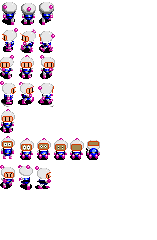
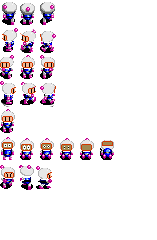
death animation done

diff --git a/src/bomberman/Sprite/Bomb.java b/src/bomberman/Sprite/Bomb.java
@@ -8,31 +8,32 @@ import bomberman.Game.*;
 import javax.swing.*;
 
 public class Bomb extends Sprite {
-
     private int timeLeft = 300;
     private int strength = 2;
     private Level level;
 
-    public Bomb(int x,int y,int height,int width, Image image, Level level){
-        super(x-42/2,y-42/2,42,42,image);
+    public Bomb(int x, int y, int height, int width, Image image, Level level) {
+        super(x - 42 / 2, y - 42 / 2, 42, 42, image);
         this.level = level;
     }
 
-    public boolean collides_with_sprite(int x1, int y1,int w1,int h1, Sprite sprite) {
-        Rectangle rect = new Rectangle(x1, y1, w1 , h1);
+    public boolean collides_with_sprite(int x1, int y1, int w1, int h1, Sprite sprite) {
+        Rectangle rect = new Rectangle(x1, y1, w1, h1);
         Rectangle otherRect = new Rectangle(sprite.x, sprite.y, sprite.width, sprite.height);
         return rect.intersects(otherRect);
     }
-    public int checkCollisionsLevel(int x1,int y1){
+
+    public int checkCollisionsLevel(int x1, int y1) {
         int i = 0;
-        while(i<level.grid.size()){
-            if(collides_with_sprite(x1,y1, 50, 50, level.grid.get(i))){
+        while (i < level.grid.size()) {
+            if (collides_with_sprite(x1, y1, 50, 50, level.grid.get(i))) {
                 return i;
             }
             i++;
         }
         return -1;
     }
+
     private boolean collides_with_player(Sprite sprite) {
         Rectangle rect = new Rectangle(this.x, this.y, this.width, this.height);
         Rectangle otherRect = new Rectangle(sprite.x, sprite.y, sprite.width, sprite.height);
@@ -40,113 +41,54 @@ public class Bomb extends Sprite {
     }
 
 
-
-    public void tick(){
-        timeLeft = timeLeft-1;
-        if(timeLeft == 0){
+    public void tick() {
+        timeLeft = timeLeft - 1;
+        if (timeLeft == 0) {
             blowUp();
         }
     }
-    public void blowUp(){
-        level.explosions.add(new Explosion(x,y,level));
-        int idx;
-        idx = 1;
-        boolean found;
-        found = false;
-        while(idx <= this.strength && !found){
-            int pos_to_check_x = this.x - (60*idx);
-            int pos_to_check_y = this.y;
-            int index = checkCollisionsLevel(pos_to_check_x,pos_to_check_y);
-            if(index == -1){
-                level.explosions.add(new Explosion(pos_to_check_x,pos_to_check_y,level));
-            }
-            else{
-                if(level.grid.get(index) instanceof Box){
-                    ((Box) level.grid.get(index)).blowUp();
-                    level.explosions.add(new Explosion(pos_to_check_x,pos_to_check_y,level));
-                    found = true;
-                }
-                if(level.grid.get(index) instanceof Wall){
-                    found = true;
-                }
-                if(level.grid.get(index) instanceof Monster){
 
-                }
-            }
-            idx++;
-        }
-        idx = 1;
-        found = false;
-        while(idx <= this.strength && !found){
-            int pos_to_check_x = this.x + (60*idx);
-            int pos_to_check_y = this.y;
-            int index = checkCollisionsLevel(pos_to_check_x,pos_to_check_y);
-            if(index == -1){
-                level.explosions.add(new Explosion(pos_to_check_x,pos_to_check_y,level));
-            }
-            else{
-                if(level.grid.get(index) instanceof Box){
-                    ((Box) level.grid.get(index)).blowUp();
-                    level.explosions.add(new Explosion(pos_to_check_x,pos_to_check_y,level));
-                    found = true;
-                }
-                if(level.grid.get(index) instanceof Wall){
-                    found = true;
-                }
-                if(level.grid.get(index) instanceof Monster){
-
-                }
-            }
-            idx++;
-        }
-        idx = 1;
-        found = false;
-        while(idx <= this.strength && !found){
-            int pos_to_check_x = this.x;
-            int pos_to_check_y = this.y - (60*idx);
-            int index = checkCollisionsLevel(pos_to_check_x,pos_to_check_y);
-            if(index == -1){
-                level.explosions.add(new Explosion(pos_to_check_x,pos_to_check_y,level));
-            }
-            else{
-                if(level.grid.get(index) instanceof Box){
-                    ((Box) level.grid.get(index)).blowUp();
-                    level.explosions.add(new Explosion(pos_to_check_x,pos_to_check_y,level));
-                    found = true;
-                }
-                if(level.grid.get(index) instanceof Wall){
-                    found = true;
-                }
-                if(level.grid.get(index) instanceof Monster){
-
-                }
-            }
-            idx++;
-        }
-        idx = 1;
-        found = false;
-        while(idx <= this.strength && !found){
-            int pos_to_check_x = this.x;
-            int pos_to_check_y = this.y + (60*idx);
-            int index = checkCollisionsLevel(pos_to_check_x,pos_to_check_y);
-            if(index == -1){
-                level.explosions.add(new Explosion(pos_to_check_x,pos_to_check_y,level));
-            }
-            else{
-                if(level.grid.get(index) instanceof Box){
-                    ((Box) level.grid.get(index)).blowUp();
-                    level.explosions.add(new Explosion(pos_to_check_x,pos_to_check_y,level));
-                    found = true;
-                }
-                if(level.grid.get(index) instanceof Wall){
-                    found = true;
-                }
-                if(level.grid.get(index) instanceof Monster){
-
-                }
-            }
-            idx++;
-        }
+    public void blowUp() {
+        level.explosions.add(new Explosion(x, y, level)); // Center explosion
+        explodeInDirection(-1, 0); // explode left
+        explodeInDirection(1, 0);  // explode right
+        explodeInDirection(0, -1); // explode up
+        explodeInDirection(0, 1);  // explode down
         level.bombs.remove(this);
     }
+
+    private void explodeInDirection(int dx, int dy) {
+        boolean found = false;
+        for (int idx = 1; idx <= this.strength && !found; idx++) {
+            int pos_to_check_x = this.x + (60 * idx * dx);
+            int pos_to_check_y = this.y + (60 * idx * dy);
+            int index = checkCollisionsLevel(pos_to_check_x, pos_to_check_y);
+            if (index == -1) {
+                level.explosions.add(new Explosion(pos_to_check_x, pos_to_check_y, level));
+                checkPlayerHit(pos_to_check_x,pos_to_check_y);
+
+            } else {
+                Sprite hitSprite = level.grid.get(index);
+                if (hitSprite instanceof Box) {
+                    ((Box) hitSprite).blowUp();
+                    level.explosions.add(new Explosion(pos_to_check_x, pos_to_check_y, level));
+                    found = true;
+                } else if (hitSprite instanceof Wall) {
+                    found = true;
+                } else if (hitSprite instanceof Monster) {
+                    // Handle monster logic here if necessary
+                }
+            }
+        }
+
+    }
+    private void checkPlayerHit(int x, int y) {
+        Bomberman player =level.gameEngine.gameLogic.getPlayers().get(0);
+            if (player.collides_with_sprite(x, y, player.width, player.height, player)) {
+                player.setAlive(false);  // Assume `setAlive` is a method to handle player status
+                level.explosions.add(new Explosion(x, y, level));  // Optional: Add explosion effect on player hit
+            }
+
+    }
+
 }

diff --git a/src/bomberman/Game/Bomberman.java b/src/bomberman/Game/Bomberman.java
@@ -41,11 +41,15 @@ public class Bomberman extends Sprite{
     private boolean up,down,left,right;
     private final int xDrawOffset=5;
     private final int yDrawOffset=6;
-    public Bomberman(int x,int y,int width,int height,int playerId, Level level,Image image){
+
+    public void setAlive(boolean alive) {
+        this.alive = alive;
+    }
+
+    public Bomberman(int x, int y, int width, int height, int playerId, Level level, Image image){
         super(x,y,width,height,image);
         this.playerId = playerId;
         this.level = level;
-        this.bombs = new ArrayList<>();
         this.bombs = new ArrayList<>();
         loadAnimations();
         initHitbox(x,y,25,44);
@@ -70,9 +74,15 @@ public class Bomberman extends Sprite{
         updatePOS();
         updateAnimation();
         setAnimations();
+        checkDeath();
         //System.out.println("Bomberman position: x=" + x + ", y=" + y);
+    }
 
-
+    private void checkDeath() {
+        if (!alive){
+            player_action=DEAD;
+            System.out.println("DEAAD");
+        }
     }
 
     private void loadAnimations() {
@@ -82,7 +92,7 @@ public class Bomberman extends Sprite{
             animations = new BufferedImage[7][6];
             for(int i =0;i<animations.length;i++){
                 for(int j =0;j<animations[i].length;j++) {
-                    animations[i][j] = img.getSubimage(j * 18, i*27, 18, 27);
+                    animations[i][j] = img.getSubimage(j * 20, i*27, 20, 27);
                 }
             }
         } catch (IOException e) {
@@ -178,7 +188,9 @@ public class Bomberman extends Sprite{
         return true;
     }
     public void setAnimations(){
+        if (player_action==DEAD){
 
+        }
         if (up){
             player_action=RUNNING_UP;
         } else if (down) {
@@ -192,6 +204,12 @@ public class Bomberman extends Sprite{
         if (!up&&!down&&!left&&!right)
             player_action=IDLE;
     }
+    public boolean collides_with_sprite(int x1, int y1, int w1, int h1, Sprite sprite) {
+        Rectangle rect = new Rectangle(x1, y1, w1, h1);
+        Rectangle otherRect = new Rectangle(sprite.getX(), sprite.getY(), sprite.width, sprite.height);
+        return rect.intersects(otherRect);
+    }
+
 
 
 }

diff --git a/src/bomberman/Game/GameLogic.java b/src/bomberman/Game/GameLogic.java
@@ -9,12 +9,14 @@ public class GameLogic {
     private Level level;
     private ArrayList<Bomberman> players;
     private GameMode gamemode;
-    public GameLogic(){
+    public GameEngine gameEngine;
+    public GameLogic(GameEngine gameEngine){
         try{
-            this.level = new Level("src/bomberman/Assets/level1.txt");
+            this.level = new Level("src/bomberman/Assets/level1.txt",gameEngine);
         }catch(Exception e){
             System.out.println(e);
         }
+        this.gameEngine=gameEngine;
         this.players = new ArrayList<>();
         Image player=new ImageIcon("src/bomberman/Assets/bomb.png").getImage();
         players.add(new Bomberman(70,70,40,50,1,level,player));

diff --git a/src/bomberman/Game/Level.java b/src/bomberman/Game/Level.java
@@ -10,6 +10,7 @@ import javax.swing.*;
 import java.util.ArrayList;
 import java.awt.Graphics;
 public class Level {
+    public GameEngine gameEngine;
     private BufferedReader br;
     public ArrayList<Sprite> grid;
     public ArrayList<Bomb> bombs;
@@ -19,9 +20,10 @@ public class Level {
     private final int block_width = 60;
     private final int block_height = 60;
 
-    public Level(String levelPath) throws IOException {
+    public Level(String levelPath,GameEngine gameEngine) throws IOException {
         fileToLevel(levelPath);
         getSnapPositions();
+        this.gameEngine=gameEngine;
         explosions = new ArrayList<Explosion>();
         bombs = new ArrayList<Bomb>();
     }

diff --git a/src/bomberman/Game/GameEngine.java b/src/bomberman/Game/GameEngine.java
@@ -22,14 +22,14 @@ import java.awt.*;
 
 public class GameEngine extends JPanel implements Runnable,StateMethods{
     private Image background = new ImageIcon("src/bomberman/Assets/mapbackground.png").getImage();
-    private GameLogic gameLogic;
+    public GameLogic gameLogic;
     private int FPS_SET=120;
     private int UPS_SET= 200;
     private Thread gameThread;
 
     public GameEngine(){
         int FPS = 60;
-        gameLogic = new GameLogic();
+        gameLogic = new GameLogic(this);
         addKeyListener(new Keyboard(this));
         setFocusable(true);
         startGameLoop();

diff --git a/src/bomberman/Game/Constants.java b/src/bomberman/Game/Constants.java
@@ -6,6 +6,7 @@ public class Constants {
     public static final int RUNNING_RIGHT=3;
     public static final int RUNNING_UP=0;
     public static final int RUNNING_DOWN=2;
+    public static  final int DEAD=5;
 
     public static int getSprite(int player_action){
         switch (player_action){
@@ -19,6 +20,8 @@ public class Constants {
                 return 3;
             case RUNNING_DOWN:
                 return 3;
+            case DEAD:
+                return 6;
             default:
                 return 1;
         }
